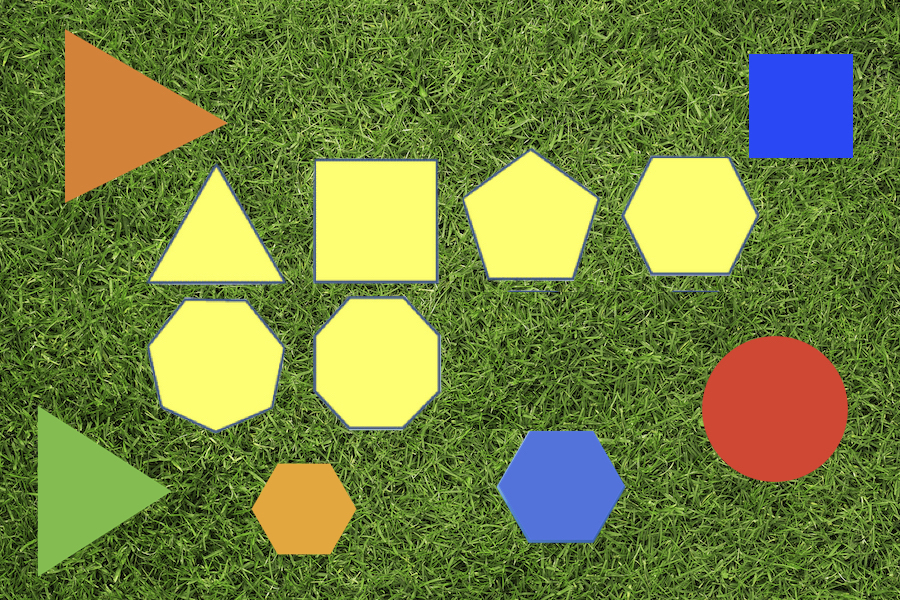
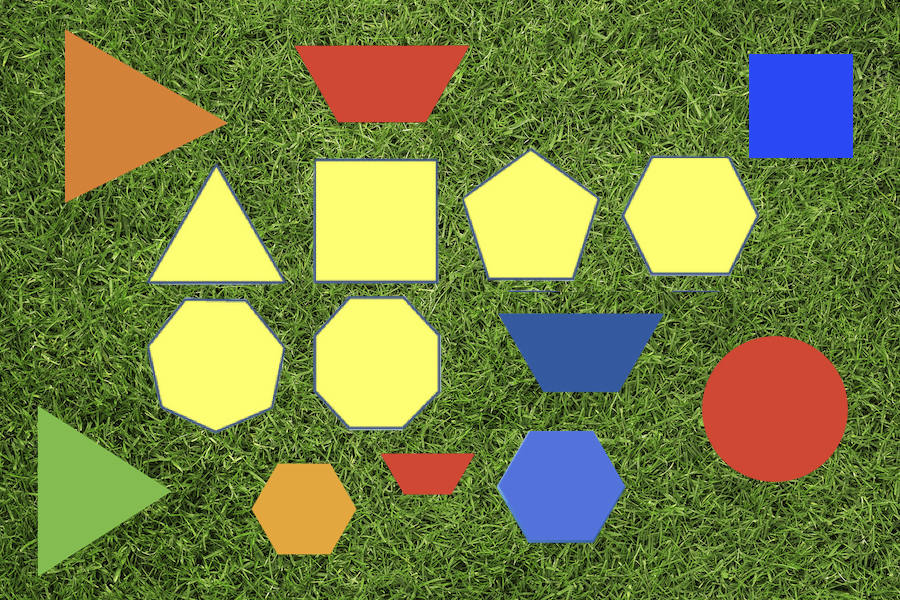
improved shape detection

Changed region(s): [[0.3111, 0.06, 0.5289, 0.21], [0.56, 0.51, 0.7467, 0.66], [0.4044, 0.75, 0.5289, 0.84]]

diff --git a/src/pennair2/shape_detector/shapedetector.py b/src/pennair2/shape_detector/shapedetector.py
@@ -1,6 +1,8 @@
 # import the necessary packages
 import cv2
 import math
+import numpy as np
+import imutils
 
 # todo: implement ratios between peri and other vars
 # for more complex shapes
@@ -12,7 +14,14 @@ class ShapeDetector:
 		# initialize the shape name and approximate the contour
 		shape = "unidentified"
 		peri = cv2.arcLength(c, True)
-		approx = cv2.approxPolyDP(c, 0.03 * peri, True)
+		approx = cv2.approxPolyDP(c, 0.04 * peri, True)
+		area = cv2.contourArea(c)
+		rect=cv2.minAreaRect(c)
+		box = cv2.boxPoints(rect)
+		box = np.int0(box)
+		side_l = self.get_distance_simple(box[0], box[1])
+		side_w = self.get_distance_simple(box[1], box[2])
+		min_box_area = side_l*side_w
 
 		# if the shape is a triangle, it will have 3 vertices
 		if len(approx) == 3:
@@ -26,11 +35,24 @@ class ShapeDetector:
 			(x, y, w, h) = cv2.boundingRect(approx)
 			ar = w / float(h)
 
-			# a square will have an aspect ratio that is approximately
-			# equal to one, otherwise, the shape is a rectangle
-			shape = "square" if ar >= 0.95 and ar <= 1.05 else "rectangle"
+			#check angles between sides if trapezoid
+			angles = []
+			angles.append(self.get_angle(approx[0], approx[1], approx[3]))
+			angles.append(self.get_angle(approx[1], approx[0], approx[2]))
+			angles.append(self.get_angle(approx[2], approx[1], approx[3]))
+			angles.append(self.get_angle(approx[3], approx[0], approx[2]))
+			is_sq = self.similar_sides(approx)
+			side_lengths = is_sq[1]
 
-			#todo trapezoid
+			# is rectangle or square
+			if min_box_area < area * 1.1 and min_box_area > area * 0.9:
+				shape = "rect or sq"
+			# else is trapezoid or part of circle
+			elif ((np.isclose([angles[0]], [angles[1]], 0.2) and np.isclose([angles[2]], [angles[3]], 0.2))
+				or (np.isclose([angles[1]], [angles[2]], 0.2) and np.isclose([angles[3]], [angles[0]], 0.2))):
+				shape = "trapezoid"
+			else:
+				shape = self.check_circular(side_w, side_l, area)
 
 		# if the shape is a pentagon, it will have 5 vertices
 		elif len(approx) == 5:
@@ -38,28 +60,28 @@ class ShapeDetector:
 			if is_pent[0]:
 				shape = "pentagon"
 			else:
-				checking = self.check_circular(is_pent[1], peri)
-				if checking == 1:
-					shape = "half circle"
-				else:
-					shape = "quarter circle"
+				shape = self.check_circular(side_w, side_l, area)
 
 		elif len(approx) == 6:
 			is_hex = self.similar_sides(approx)
 			if is_hex[0]:
 				shape = "hexagon"
 			else:
-				checking = self.check_circular(is_hex[1], peri)
-				if checking == 1:
-					shape = "half circle"
-				else:
-					shape = "quarter circle"
+				shape = self.check_circular(side_w, side_l, area)
 				
 		elif len(approx) == 7:
 			shape = "heptagon"
 
+			check = self.check_cross(side_w, side_l, area)
+			if check:
+				shape = "cross"
+
 		elif len(approx) == 8:
 			shape = "octagon"
+
+			check = self.check_cross(side_w, side_l, area)
+			if check:
+				shape = "cross"
 
 		elif len(approx) == 10 or len(approx) == 9:
 			shape = "star"
@@ -71,32 +93,64 @@ class ShapeDetector:
 		else:
 			shape = "circle"
 
+		#check circle because circle has issues
+		if side_w < side_l*1.03 and side_w > side_l*0.97 and len(approx) >= 6:
+			radius = side_w/2
+			expected_area = pow(radius,2)*math.pi
+			if area < expected_area*1.03 and area > expected_area*0.97:
+				shape="circle"
+
 		# return the name of the shape
 		return shape
 
-
-	def get_distance(self, one, two):
+	def get_distance_approx(self, one, two):
 		return math.sqrt(pow((one[0][0] - two[0][0]), 2) + pow((one[0][1] - two[0][1]), 2))
 
+	def get_distance_simple(self, one, two):
+		return math.sqrt(pow((one[0] - two[0]), 2) + pow((one[1] - two[1]), 2))
+
+	# tail of both vector 1 and 2 at center
+	def get_angle(self, center, one, two):
+		vector1 = [center[0][0]-one[0][0],center[0][1]-one[0][1]]
+		vector2 = [center[0][0]-two[0][0],center[0][1]-two[0][1]]
+		top = vector1[0]*vector2[0]+vector1[1]*vector2[1]
+		bottom = self.get_distance_approx(center, one) * self.get_distance_approx(center, two)
+		return np.arccos(top/bottom)
 
 	def similar_sides(self, approx):
 		side_lengths = []
 		is_similar = True
 		for elem in range(len(approx)-1):
-			side_lengths.append(self.get_distance(approx[elem], approx[elem + 1]))
-		side_lengths.append(self.get_distance(approx[0], approx[len(approx) - 1]))
+			side_lengths.append(self.get_distance_approx(approx[elem], approx[elem + 1]))
+		side_lengths.append(self.get_distance_approx(approx[0], approx[len(approx) - 1]))
 		avg = sum(side_lengths)/len(side_lengths)
 		for side in side_lengths:
 			if not (side >= avg*0.7 and side <= avg*1.3):
 				is_similar = False
 		return [is_similar, side_lengths]
 
+	def check_cross(self, side_w, side_l, area):
+		side = max(side_w, side_l)
+		near_circle = pow(side/2, 2) * math.pi
+		if abs(area - (side_w * side_l)/2) < abs(area - near_circle):
+			return True
+		else:
+			return False
 
 	# 1 for semicircle, 2 for quarter circle
-	def check_circular(self, side_lengths, peri):
-		diameter = max(side_lengths)
-		expected_peri = math.pi*diameter/2 + diameter
-		if peri >= expected_peri*0.8 and peri <= expected_peri*1.2:
-			return 1
-		else:
-			return 2
+	def check_circular(self, side_w, side_l, area):
+		side = max(side_w, side_l)
+		expected_qt = pow(side, 2) * math.pi/4
+		expected_half = pow(side/2, 2) * math.pi/2
+		expected_full = pow(side/2, 2) * math.pi
+		diff_qt = abs(area - expected_qt)
+		diff_half = abs(area - expected_half)
+		diff_full = abs(area - expected_full)
+		min_diff = min(diff_qt, min(diff_half, diff_full))
+
+		if min_diff == diff_qt:
+			return "quarter circle"
+		elif min_diff == diff_half:
+			return "half circle"
+		else: 
+			return "circle"

diff --git a/src/pennair2/shape_detector/shapeify.py b/src/pennair2/shape_detector/shapeify.py
@@ -84,25 +84,28 @@ def shapeify3D(image):
 
 	# loop over the contours
 	for c in cnts:
-		# compute the center of the contour, then detect the name of the
-		# shape using only the contour
-		M = cv2.moments(c)
-		cX = int((M["m10"] / M["m00"]) * ratio)
-		cY = int((M["m01"] / M["m00"]) * ratio)
-		shape = sd.detect(c)
+		try:
+			# compute the center of the contour, then detect the name of the
+			# shape using only the contour
+			M = cv2.moments(c)
+			cX = int((M["m10"] / M["m00"]) * ratio)
+			cY = int((M["m01"] / M["m00"]) * ratio)
+			shape = sd.detect(c)
 
-		# multiply the contour (x, y)-coordinates by the resize ratio,
-		# then draw the contours and the name of the shape on the image
-		c = c.astype("float")
-		c *= ratio
-		c = c.astype("int")
-		cv2.drawContours(image, [c], -1, (0, 255, 0), 2)
-		cv2.putText(image, shape, (cX, cY), cv2.FONT_HERSHEY_SIMPLEX,
-			0.5, (255, 0, 0), 2)
+			# multiply the contour (x, y)-coordinates by the resize ratio,
+			# then draw the contours and the name of the shape on the image
+			c = c.astype("float")
+			c *= ratio
+			c = c.astype("int")
+			cv2.drawContours(image, [c], -1, (0, 255, 0), 2)
+			cv2.putText(image, shape, (cX, cY), cv2.FONT_HERSHEY_SIMPLEX,
+				0.5, (255, 0, 0), 2)
 
-		# show the output image
-		cv2.imshow("Image", image)
-		cv2.waitKey(0)
+			# show the output image
+			cv2.imshow("Image", image)
+			cv2.waitKey(0)
+		except ZeroDivisionError:
+			pass
 
 
 if __name__=="__main__":

diff --git a/src/pennair2/shape_detector/stratify.py b/src/pennair2/shape_detector/stratify.py
@@ -29,7 +29,6 @@ def stratify(name, bounds):
 			cv2.bitwise_or(combined, m, combined)
 
 		mask = combined
-		#cv2.fastNlMeansDenoising(src=mask, dst=mask, h=75)
 	else:	
 		# set bounds of what you want to keep
 		sensitivity = 10
@@ -49,7 +48,7 @@ def stratify(name, bounds):
 				get_color[x][y][1] = 0
 				get_color[x][y][2] = 0
 
-	cv2.fastNlMeansDenoisingColored(src=get_color, dst=get_color, h=60)
+	cv2.fastNlMeansDenoisingColored(src=get_color, dst=get_color, h=75)
 	shapeify.shapeify3D(get_color)
 
 
